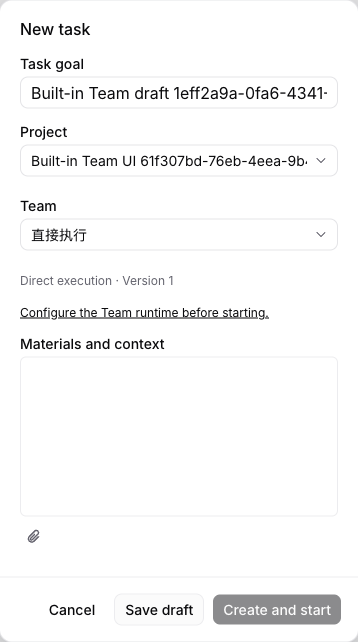
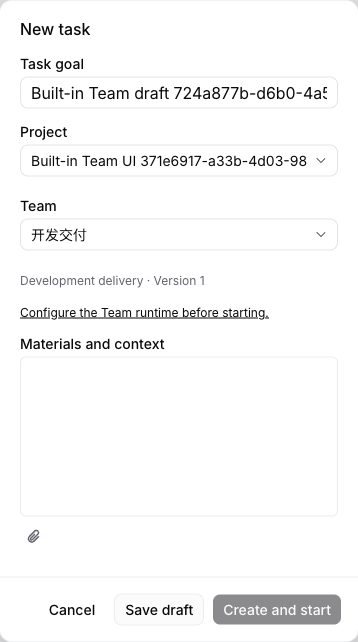
test(teams): accept Development delivery with human decisions in both repository modes

diff --git a/e2e/engineering-team-delivery.spec.ts b/e2e/engineering-team-delivery.spec.ts
@@ -7,7 +7,7 @@ import { pathToFileURL } from "node:url";
 import { TestApiClient } from "./fixtures";
 // Native queue claims and role conclusions are controlled; the API, Git,
 // browser observations, publication, independent verification and Done are real.
-for (const mode of ["in_place", "worktree"] as const) test(`Bug Fix Team ${mode} advances a native task from human reproduction facts through verified repair and report reading`, async ({ baseURL }, testInfo) => {
+for (const workflow of ["develop", "bug_fix"] as const) for (const mode of ["in_place", "worktree"] as const) test(`${workflow === "develop" ? "Development" : "Bug Fix"} Team ${mode} advances a native task from human facts through verified delivery and report reading`, async ({ baseURL }, testInfo) => {
   test.setTimeout(600000);
   test.skip(process.env.MULTICA_ENGINEERING_ENABLED !== "true" || !process.env.MULTICA_ENGINEERING_CLI || !process.env.MULTICA_ENGINEERING_BROWSER, "Requires managed engineering, a test-built CLI and an explicit browser");
   const api = new TestApiClient();
@@ -15,7 +15,7 @@ for (const mode of ["in_place", "worktree"] as const) test(`Bug Fix Team ${mode}
   const workspace = (await api.getWorkspaces()).find(item => item.slug === "loopwork-local")!;
   api.setWorkspaceId(workspace.id);
   api.setWorkspaceSlug(workspace.slug);
-  const directory = await realpath(await mkdtemp(join(tmpdir(), "team-bug-fix-"))), registeredRepository = join(directory, "repository");
+  const directory = await realpath(await mkdtemp(join(tmpdir(), `team-${workflow}-`))), registeredRepository = join(directory, "repository");
   let repository = registeredRepository;
   execFileSync("git", ["init", "-q", repository]);
   const git = (...args: string[]) => execFileSync("git", ["-C", repository, ...args], { encoding: "utf8", stdio: ["ignore", "pipe", "pipe"] }).trim();
@@ -34,25 +34,21 @@ for (const mode of ["in_place", "worktree"] as const) test(`Bug Fix Team ${mode}
   await context.addInitScript(() => localStorage.setItem("multica:chat:isOpen", "false"));
   try {
     const seed = await api.seedEngineeringRun(), runs = [seed];
-    for (let i = 0; i < 6; i++)
+    for (let i = 0; i < (workflow === "bug_fix" ? 6 : 5); i++)
       runs.push(await api.seedEngineeringRun(seed.issueId));
-    const [backlog, reproducer, planner, analyst, developer, verifier, reviewer] = runs as [
-      typeof seed,
-      typeof seed,
-      typeof seed,
-      typeof seed,
-      typeof seed,
-      typeof seed,
-      typeof seed
+    const [backlog, planner, analyst, developer, verifier, reviewer] = runs as [
+      typeof seed, typeof seed, typeof seed, typeof seed, typeof seed, typeof seed,
     ];
-    const project = await api.createProject(`Bug Fix Team ${seed.issueId}`), team = await api.createWorkflowTeamFixture(backlog.agentId);
+    const reproducer = workflow === "bug_fix" ? runs[6]! : undefined;
+    const roles = { context: backlog.agentId, planner: planner.agentId, analyst: analyst.agentId, developer: developer.agentId, verifier: verifier.agentId, reviewer: reviewer.agentId, ...(reproducer ? { reproducer: reproducer.agentId } : {}) };
+    const project = await api.createProject(`${workflow} Team ${seed.issueId}`), team = await api.createWorkflowTeamFixture(backlog.agentId);
     for (const run of runs) {
       await api.finishEngineeringRun(run.taskId);
       await api.attachEngineeringProject(run.taskId, project.id, registeredRepository, mode);
       if (run.agentId !== backlog.agentId)
         await api.addWorkflowTeamAgentFixture(team.id, run.agentId);
     }
-    await api.configureWorkflowTeamDefinitionFixture(team.id, { workflow: "bug_fix", roles: { context: backlog.agentId, reproducer: reproducer.agentId, planner: planner.agentId, analyst: analyst.agentId, developer: developer.agentId, verifier: verifier.agentId, reviewer: reviewer.agentId }, decision_mode: "balanced", max_reworks: 1 });
+    await api.configureWorkflowTeamDefinitionFixture(team.id, { workflow, roles, decision_mode: "balanced", max_reworks: 1 });
     const page = await context.newPage();
     await page.goto(`${baseURL}/`);
     await expect(page).toHaveURL(new RegExp(`/${workspace.slug}/issues`));
@@ -83,7 +79,7 @@ for (const mode of ["in_place", "worktree"] as const) test(`Bug Fix Team ${mode}
       console.info("Native queue checkpoint", JSON.stringify({ requestedAgent: agentId, runs: await api.engineeringRunStates(issueId), chain: checkpoint.chain, status: checkpoint.status, active: checkpoint.has_active_run, review: checkpoint.requirement?.review?.agent_id }));
       throw error;
     } const id = (await api.queuedEngineeringRun(issueId, agentId))!; return api.claimEngineeringRun(id); };
-    const begin = async (issueId: string, agentId: string, commit = originalCommit) => { console.info("Bug Fix Team awaiting native role", Object.entries({ context: backlog.agentId, reproducer: reproducer.agentId, planner: planner.agentId, analyst: analyst.agentId, developer: developer.agentId, verifier: verifier.agentId, reviewer: reviewer.agentId }).find(([, id]) => id === agentId)?.[0]); owner = await next(issueId, agentId);
+    const begin = async (issueId: string, agentId: string, commit = originalCommit) => { console.info(workflow + " Team awaiting native role", Object.entries(roles).find(([, id]) => id === agentId)?.[0]); owner = await next(issueId, agentId);
       if (mode === "worktree") {
         repository = join(directory, owner.taskId);
         registeredGit("worktree", "add", "-qb", `team-${owner.taskId}`, repository, commit);
@@ -120,9 +116,31 @@ for (const mode of ["in_place", "worktree"] as const) test(`Bug Fix Team ${mode}
     put("requirement-context.intent", "Restore the existing Continue behavior");
     put("requirement-context.assertions", { perspective: "actual", statement: "Continue sometimes produces no output", evidence: "reported", source: "Original bug report" }, "actual");
     put("requirement-context.assertions", { perspective: "expected", statement: expected, evidence: "reported", source: "Existing reader contract" }, "expected");
-    for (let i = 0; i < 3; i++)
+    const contextDraft = state.draft.id;
+    command({ type: "phase.complete" });
+    if (workflow === "develop") {
+      command({ type: "decision.propose", decision: { key: "state", type: "business", title: "Required reader states", question: "Which states must Continue support?", impact: "Determines the delivery scope", options: [{ id: "both", label: "Both states", consequence: "Continue works in fresh and saved states" }, { id: "fresh", label: "Fresh only", consequence: "Leave saved state outside this delivery" }], recommendation: { option: "both", reason: "Preserve the original reader contract", authority: "user" }, dependencies: [] } });
       command({ type: "phase.complete" });
-    put("requirement-context.answer-review", "Expected is fixed; affected conditions require reproduction");
+      command({ type: "decision.ask", key: "state" });
+      command({ type: "phase.complete" });
+      expect(state.draft.status).toBe("waiting_for_answers");
+      await finish();
+      expect(await api.queuedEngineeringRun(issue.id, planner.agentId)).toBeNull();
+      await panel.getByRole("button", { name: "Refresh engineering delivery" }).click();
+      await panel.getByRole("combobox", { name: "Your choice", exact: true }).click();
+      await page.getByRole("option", { name: /Both states.*Continue works/ }).click();
+      await page.screenshot({ path: testInfo.outputPath("team-development-human-choice.png") });
+      await panel.getByRole("button", { name: "Submit answer", exact: true }).click();
+      await begin(issue.id, backlog.agentId);
+      expect(state.draft.id).toBe(contextDraft);
+      expect(state.draft.runtimeInputs[0].answer).toMatchObject({ selectedOption: "both", userId: seed.userId });
+      command({ type: "decision.resolve", key: "state", option: "both", authority: "user", decision: "Both reader states", rationale: "Authenticated delivery scope", evidence: state.draft.runtimeInputs[0].id });
+      command({ type: "phase.complete" });
+    } else {
+      command({ type: "phase.complete" });
+      command({ type: "phase.complete" });
+    }
+    put("requirement-context.answer-review", "Expected and authenticated delivery scope agree");
     command({ type: "phase.complete" });
     put("requirement-context.assertions", { perspective: "target", statement: expected, evidence: "decided", source: "Existing reader contract" }, "target");
     command({ type: "phase.complete" });
@@ -135,51 +153,54 @@ for (const mode of ["in_place", "worktree"] as const) test(`Bug Fix Team ${mode}
     command({ type: "phase.complete" });
     command({ type: "phase.complete" });
     await finish();
-    console.info("Bug Fix Team: native context handed off");
-    await begin(issue.id, reproducer.agentId);
-    expect(state.chain).toBe("reproduction");
-    expect(state.contract.expectedBehavior).toBe(expected);
-    const reproductionDraft = state.draft.id;
-    const record = (reproduced: boolean, actual: string) => { put("reproduction.verdict", { status: reproduced ? "reproduced" : "not_reproduced", expectedBehavior: expected, actualBehavior: actual || "Empty output after Continue", environment: reproduced ? "Saved state #saved" : "Fresh state", stability: "Explicit Chromium activation", impactScope: "Continue control" }); put("reproduction.steps", { action: "Activate Continue", expected: "Continued", actual: actual || "Empty output" }, "activate"); put("reproduction.evidence", { kind: "observation", content: `Chromium output: ${JSON.stringify(actual)}`, source: `index.html${reproduced ? "#saved" : ""}` }, "browser"); };
-    record(false, await observe(false, "Continued"));
-    command({ type: "phase.complete" });
-    command({ type: "decision.propose", decision: { key: "state", type: "technical", title: "Affected reader state", question: "Which state triggers this failure?", impact: "Changes reproduction conditions", options: [{ id: "saved", label: "Saved state", consequence: "Open saved reader state" }, { id: "fresh", label: "Fresh state", consequence: "Open fresh reader state" }], recommendation: { option: "saved", reason: "Fresh state works", authority: "user" }, dependencies: [] } });
-    command({ type: "phase.complete" });
-    command({ type: "decision.ask", key: "state" });
-    command({ type: "phase.complete" });
-    expect(state.draft.status).toBe("waiting_for_answers");
-    await finish();
-    expect(await api.queuedEngineeringRun(issue.id, planner.agentId)).toBeNull();
-    await panel.getByRole("button", { name: "Refresh engineering delivery" }).click();
-    await expect(panel.getByText("Not reproduced under the recorded conditions. Delivery planning remains blocked.", { exact: true })).toBeVisible();
-    await page.setViewportSize({ width: 390, height: 1200 });
-    await expect(panel.getByRole("combobox", { name: "Your choice", exact: true })).toBeVisible();
-    await page.screenshot({ path: testInfo.outputPath("team-bug-awaiting-human-390.png") });
-    await panel.getByRole("combobox", { name: "Your choice", exact: true }).click();
-    await page.getByRole("option", { name: /Saved state.*Open saved/ }).click();
-    await panel.getByRole("button", { name: "Submit answer", exact: true }).click();
-    await begin(issue.id, reproducer.agentId);
-    expect(state.draft.id).toBe(reproductionDraft);
-    expect(state.draft.runtimeInputs[0].answer.userId).toBe(seed.userId);
-    command({ type: "decision.resolve", key: "state", option: "saved", authority: "user", decision: "Use saved state", rationale: "Authenticated human fact", evidence: state.draft.runtimeInputs[0].id });
-    command({ type: "phase.complete" });
-    put("reproduction.answer-review", "Changed conditions require a fresh observation");
-    command({ type: "phase.complete" });
-    command({ type: "phase.rewind", to: "investigation", reason: "Observe saved-state condition" });
-    record(true, await observe(true, "", "team-bug-reproduced.png"));
-    for (let i = 0; i < 3; i++)
+    console.info(workflow + " Team: native context handed off");
+    if (reproducer) {
+      await begin(issue.id, reproducer.agentId);
+      expect(state.chain).toBe("reproduction");
+      expect(state.contract.expectedBehavior).toBe(expected);
+      const reproductionDraft = state.draft.id;
+      const record = (reproduced: boolean, actual: string) => { put("reproduction.verdict", { status: reproduced ? "reproduced" : "not_reproduced", expectedBehavior: expected, actualBehavior: actual || "Empty output after Continue", environment: reproduced ? "Saved state #saved" : "Fresh state", stability: "Explicit Chromium activation", impactScope: "Continue control" }); put("reproduction.steps", { action: "Activate Continue", expected: "Continued", actual: actual || "Empty output" }, "activate"); put("reproduction.evidence", { kind: "observation", content: `Chromium output: ${JSON.stringify(actual)}`, source: `index.html${reproduced ? "#saved" : ""}` }, "browser"); };
+      record(false, await observe(false, "Continued"));
       command({ type: "phase.complete" });
-    put("reproduction.answer-review", "Saved-state browser observation reproduces failure against unchanged Expected");
-    command({ type: "phase.complete" });
-    command({ type: "phase.complete" });
-    expect(state.conclusion.history).toHaveLength(1);
-    expect(git("rev-parse", "HEAD")).toBe(originalCommit);
-    expect(git("status", "--porcelain")).toBe("");
-    await finish();
-    console.info("Bug Fix Team: authenticated facts and renewed reproduction retained");
+      command({ type: "decision.propose", decision: { key: "state", type: "technical", title: "Affected reader state", question: "Which state triggers this failure?", impact: "Changes reproduction conditions", options: [{ id: "saved", label: "Saved state", consequence: "Open saved reader state" }, { id: "fresh", label: "Fresh state", consequence: "Open fresh reader state" }], recommendation: { option: "saved", reason: "Fresh state works", authority: "user" }, dependencies: [] } });
+      command({ type: "phase.complete" });
+      command({ type: "decision.ask", key: "state" });
+      command({ type: "phase.complete" });
+      expect(state.draft.status).toBe("waiting_for_answers");
+      await finish();
+      expect(await api.queuedEngineeringRun(issue.id, planner.agentId)).toBeNull();
+      await panel.getByRole("button", { name: "Refresh engineering delivery" }).click();
+      await expect(panel.getByText("Not reproduced under the recorded conditions. Delivery planning remains blocked.", { exact: true })).toBeVisible();
+      await page.setViewportSize({ width: 390, height: 1200 });
+      await expect(panel.getByRole("combobox", { name: "Your choice", exact: true })).toBeVisible();
+      await page.screenshot({ path: testInfo.outputPath("team-bug-awaiting-human-390.png") });
+      await panel.getByRole("combobox", { name: "Your choice", exact: true }).click();
+      await page.getByRole("option", { name: /Saved state.*Open saved/ }).click();
+      await panel.getByRole("button", { name: "Submit answer", exact: true }).click();
+      await begin(issue.id, reproducer.agentId);
+      expect(state.draft.id).toBe(reproductionDraft);
+      expect(state.draft.runtimeInputs[0].answer.userId).toBe(seed.userId);
+      command({ type: "decision.resolve", key: "state", option: "saved", authority: "user", decision: "Use saved state", rationale: "Authenticated human fact", evidence: state.draft.runtimeInputs[0].id });
+      command({ type: "phase.complete" });
+      put("reproduction.answer-review", "Changed conditions require a fresh observation");
+      command({ type: "phase.complete" });
+      command({ type: "phase.rewind", to: "investigation", reason: "Observe saved-state condition" });
+      record(true, await observe(true, "", "team-bug-reproduced.png"));
+      for (let i = 0; i < 3; i++)
+        command({ type: "phase.complete" });
+      put("reproduction.answer-review", "Saved-state browser observation reproduces failure against unchanged Expected");
+      command({ type: "phase.complete" });
+      command({ type: "phase.complete" });
+      expect(state.conclusion.history).toHaveLength(1);
+      expect(git("rev-parse", "HEAD")).toBe(originalCommit);
+      expect(git("status", "--porcelain")).toBe("");
+      await finish();
+      console.info(workflow + " Team: authenticated facts and renewed reproduction retained");
+    }
     await begin(issue.id, planner.agentId);
     expect(state.chain).toBe("planning");
-    expect(state.contract.reproduction.report).toContain("Prior investigation observations");
+    if (reproducer) expect(state.contract.reproduction.report).toContain("Prior investigation observations");
+    else expect(state.contract.reproduction).toBeUndefined();
     expect(state.contract.sources.find((source: any) => source.key === "acceptance:continue").oracle).toBe(expected);
     command({ type: "phase.complete" });
     put("delivery-plan.rationale", "Restore Continue against the original Expected");
@@ -244,16 +265,16 @@ for (const mode of ["in_place", "worktree"] as const) test(`Bug Fix Team ${mode}
     command({ type: "phase.complete" });
     await finish();
     await expect.poll(() => api.publishedEngineeringIssues(issue.id).then(items => items[0]?.status), { timeout: 70000 }).toBe("done");
-    console.info("Bug Fix Team: native unit accepted against real commit and browser observations");
+    console.info(workflow + " Team: native unit accepted against real commit and browser observations");
     const beforeReview = await api.engineeringOverview(issue.id);
-    console.info("Bug Fix Team review checkpoint", JSON.stringify({ chain: beforeReview.chain, status: beforeReview.status, accepted: Object.keys(beforeReview.requirement.accepted), review: !!beforeReview.requirement.review, active: beforeReview.has_active_run }));
+    console.info(workflow + " Team review checkpoint", JSON.stringify({ chain: beforeReview.chain, status: beforeReview.status, accepted: Object.keys(beforeReview.requirement.accepted), review: !!beforeReview.requirement.review, active: beforeReview.has_active_run }));
     // Review creation and native enqueue are separate persisted scheduler turns.
     await expect.poll(() => api.engineeringOverview(issue.id).then(value => value.requirement.review?.agent_id), { timeout: 70000 }).toBe(reviewer.agentId);
     await begin(issue.id, reviewer.agentId, repairedCommit);
     expect(state.chain).toBe("review");
     expect(state.contract.binding.codeVersion).toBe(repairedCommit);
-    expect(state.contract.subjects).toEqual(expect.arrayContaining([expect.objectContaining({ kind: "expected", content: expected })]));
-    expect(state.contract.evidence.some((item: any) => item.kind === "reproduction")).toBe(true);
+    expect(state.contract.subjects).toEqual(expect.arrayContaining([expect.objectContaining({ kind: workflow === "bug_fix" ? "expected" : "target", content: expected })]));
+    expect(state.contract.evidence.some((item: any) => item.kind === "reproduction")).toBe(!!reproducer);
     const reviewContract = state.contract;
     command({ type: "phase.complete" });
     for (const [index, subject] of reviewContract.subjects.entries())
@@ -262,7 +283,7 @@ for (const mode of ["in_place", "worktree"] as const) test(`Bug Fix Team ${mode}
     put("review.assessment", { summary: "Original saved-state defect is repaired", evidenceBoundary: "Exact local commit and independent Chromium observations; model conclusions are controlled", residualRisk: "No real-provider or packaged-client acceptance" });
     command({ type: "phase.complete" });
     for (const kind of ["outcome", "scope", "implementation", "verification", "risks"])
-      put("review.report-sections", { kind, content: `Bug Fix ${kind}: the original Continue result is preserved in fresh and saved states at ${repairedCommit}. Authenticated human conditions and earlier observations remain retained.` }, kind);
+      put("review.report-sections", { kind, content: `${workflow} ${kind}: the original Continue result is preserved in fresh and saved states at ${repairedCommit}. Authenticated human conditions and earlier observations remain retained.` }, kind);
     command({ type: "phase.complete" });
     command({ type: "phase.complete" });
     expect(state.conclusion.verdict).toBe("report_ready");
@@ -274,7 +295,7 @@ for (const mode of ["in_place", "worktree"] as const) test(`Bug Fix Team ${mode}
     const refreshed = page.waitForResponse(response => response.request().method() === "GET" && new URL(response.url()).pathname === `/api/issues/${issue.id}/engineering`);
     await panel.getByRole("button", { name: "Refresh engineering delivery" }).click();
     const fresh = await (await refreshed).json();
-    console.info("Bug Fix Team reading checkpoint", JSON.stringify({ active: fresh.has_active_run, report: !!fresh.requirement.review?.report_hash, intervention: !!fresh.intervention }));
+    console.info(workflow + " Team reading checkpoint", JSON.stringify({ active: fresh.has_active_run, report: !!fresh.requirement.review?.report_hash, intervention: !!fresh.intervention }));
     await expect(panel.getByRole("heading", { name: "Requirement closure report", exact: true })).toBeVisible();
     const reading = panel.getByRole("button", { name: "I have read it; close requirement", exact: true });
     await expect(reading).toBeEnabled({ timeout: 15000 });
@@ -296,7 +317,7 @@ for (const mode of ["in_place", "worktree"] as const) test(`Bug Fix Team ${mode}
     expect(registeredGit("rev-parse", deliveryBranch)).toBe(repairedCommit);
     expect(registeredGit("show", `${repairedCommit}:index.html`)).toBe(fixed);
     expect(git("status", "--porcelain")).toBe("");
-    expect((await api.engineeringRunStates(issue.id)).map(run => run.agent_id).sort()).toEqual([backlog.agentId, reproducer.agentId, reproducer.agentId, planner.agentId, reviewer.agentId].sort());
+    expect((await api.engineeringRunStates(issue.id)).map(run => run.agent_id).sort()).toEqual([backlog.agentId, ...(reproducer ? [reproducer.agentId, reproducer.agentId] : [backlog.agentId]), planner.agentId, reviewer.agentId].sort());
   }
   finally {
     await context.close();

diff --git a/e2e/engineering-desktop.spec.ts b/e2e/engineering-desktop.spec.ts
@@ -24,8 +24,8 @@ test("packaged local Desktop retains the Development Team and drafts without sta
     let page = await useEnglishDesktop(application, sandbox.profile.directory);
     currentPage = page;
     await page.getByRole("link", {name: "Team", exact: true}).click();
-    await expect(page.getByRole("link", {name: "Teams", exact: true})).toBeVisible({timeout: 25000});
-    await page.getByRole("link", {name: "Teams", exact: true}).click();
+    await expect(page.getByRole("link", {name: /^Teams(?:\s*\d+)?$/})).toBeVisible({timeout: 25000});
+    await page.getByRole("link", {name: /^Teams(?:\s*\d+)?$/}).click();
     for (const team of teams) await expect(page.getByText(team.name, {exact: true}).first()).toBeVisible();
     await page.screenshot({path: testInfo.outputPath("desktop-development-team.png")});
     await page.getByText(develop.name, {exact: true}).first().click();
@@ -59,7 +59,7 @@ test("packaged local Desktop retains the Development Team and drafts without sta
     currentPage = page;
     await expect(page.getByTestId("content").getByRole("button", {name: title, exact: true})).toBeVisible({timeout: 25000});
     await page.getByRole("link", {name: "Team", exact: true}).click();
-    await expect(page.getByRole("link", {name: "Teams", exact: true})).toBeVisible({timeout: 25000});
+    await expect(page.getByRole("link", {name: /^Teams(?:\s*\d+)?$/})).toBeVisible({timeout: 25000});
     expect(await page.evaluate(() => window.daemonAPI.getStatus())).toMatchObject({state: "stopped"});
     await sandbox.expectStopped(page);
     expect((await api.builtinEngineeringTeams())).toEqual(teams);

diff --git a/docs/engineering/migration-status.md b/docs/engineering/migration-status.md
@@ -52,7 +52,7 @@ scenario. See
 | Direct | Controlled normal lifecycle connected | [Direct](direct.md): dedicated RUN/SUBMIT, first-result-wins persistence, native attempt/project fencing, Git/plain-directory binding, guarded automatic Done and Markdown UI; both controlled browser scenarios passed. Terminal intervention handoff is connected; independent Admin repair/arbitration, real-provider and packaged acceptance remain |
 | Business Analysis | Standalone closure connected | Real-model review quality, native worktree and packaged acceptance before cutover |
 | End to End | Controlled local path connected | Ten initial roles, exact source handoff, authenticated context, two native dependent deliveries, automatic publication/review, a third forward unit and exact report reading passed; real-provider and native worktree/packaged acceptance remain |
-| Develop | Controlled local path connected | Real-provider acceptance, remaining recovery and resource-ownership boundaries before cutover |
+| Develop | Controlled six-role Team lifecycle passed in both repository modes | [Team acceptance](teams.md#verification-and-remaining-boundary): create/start with only Team/project selection, authenticated context question and same-draft continuation, automatic planning/child publication, analysis, real Git commit/check receipt, independent Chrome verification, automatic final Review and exact human reading before parent Done. Reclaimed worktrees retain required branches and leave the registered HEAD unchanged. Queue claims and role conclusions are controlled; real-provider acceptance and remaining recovery/resource-ownership boundaries remain before cutover |
 | Bug Fix | Controlled local Team lifecycle connected in both repository modes | [Native Team acceptance](reproduction.md#controlled-native-bug-fix-team-acceptance): browser create/start, authenticated reproduction facts, one native child, real Git repair, independent Chrome verification, automatic Review and exact reading before native Done. Competing child-done leader wakeups are suppressed with facts retained. [Protocol acceptance](requirement-review.md#bug-fix-team-protocol-acceptance) additionally covers two dependent units and storage reopen in both in-place/worktree modes. Native worktree attempts are reclaimed between roles and before reading while retaining the original HEAD and exact Review/delivery refs. Daemon-owned process lifecycle, real-provider diagnosis and packaged acceptance remain |
 | Post-delivery feedback | Partial | Capture, triage, forward delivery, independent per-comment verification and new report reading connected; report correction connected; Team-bound roles and automatic forward authorization connected; original-contract revision and reconciliation remain incomplete |
 

diff --git a/docs/engineering/desktop-acceptance.md b/docs/engineering/desktop-acceptance.md
@@ -6,8 +6,8 @@ not a notarized installer or acceptance of model execution, every workflow,
 updating, external protocol registration, other operating systems or Mobile.
 
 The current local fork `0.8.2-241-gdf08ef700` has passed independent native
-launch and displays all five Teams, with its separate bundle identity and no
-advertised upstream protocol. Its 44,768 packed files passed integrity checks
+launch and displays the Development delivery Team, with its separate bundle
+identity and no advertised upstream protocol. Its 44,768 packed files passed integrity checks
 both before and after ad-hoc signing. The prior `0.8.2-238-gc88b74ba5` archive
 was corrupt and is superseded by this build.
 
@@ -83,7 +83,8 @@ real provider executable. The scenario:
 
 1. Enters the existing local workspace without email or OAuth and confirms the
    isolated Electron data directory.
-2. Navigates **Team → Teams**, showing the five actual predefined Teams.
+2. Navigates **Team → Teams**, showing Development delivery as the only active
+   predefined Team.
 3. Opens **Development delivery → Team settings**, confirms the fixed workflow
    and inherited role/context settings, then cancels without changing the Team.
 4. Creates an owned fixture project and opens **New Issue**. The task asks for
@@ -93,8 +94,8 @@ real provider executable. The scenario:
 5. Saves a Backlog draft assigned to the Develop Team, closes and relaunches the
    same packaged app, and finds the retained task/session again.
 6. Confirms the daemon stayed stopped, no provider sentinel was invoked, no
-   daemon PID/port file was created, the native config is private, and all five
-   Team definitions remain unchanged. `TestApiClient` removes only the owned
+   daemon PID/port file was created, the native config is private, and the
+   Development delivery definition remains unchanged. `TestApiClient` removes only the owned
    draft/project fixtures. The private Desktop profile is retained for inspection.
 
 ```sh
@@ -109,7 +110,7 @@ arguments the test skips; a skipped test is not acceptance. The test's English
 locale is saved only in its isolated renderer; it does not change the shared
 local user's language.
 
-![Five Teams in packaged Desktop](assets/desktop-five-teams.png)
+![Development delivery in packaged Desktop](assets/desktop-development-team.png)
 
 ![Team-owned workflow, roles and context](assets/desktop-team-settings.png)
 

diff --git a/docs/engineering/teams.md b/docs/engineering/teams.md
@@ -155,8 +155,26 @@ second authorization form is needed for a Team's predefined feedback workflow.
 
 ## Verification and remaining boundary
 
+The [Development delivery lifecycle scenario](../../e2e/engineering-team-delivery.spec.ts)
+uses an owned six-role Team with the `develop` definition. A task chooses only its
+project and Team; context asks an authenticated human question and resumes the
+same draft before automatic planning. Planning publishes one native child;
+analysis, development and an independent verifier run as separate native roles.
+The developer creates a real Git commit and captured check receipt, the verifier
+observes fresh/saved page behavior in Chrome, and final Review reconciles the
+original obligations. Premature parent/child Done is refused and the parent can
+close only after reading the exact report. Both in-place and reclaimed-worktree
+modes passed the controlled native acceptance. Queue claims and role conclusions are controlled; no model
+provider or actual historical task is started. The scenario preserves the user's retained Development
+Team and its six runtime bindings.
+
+![Authenticated Development scope choice](assets/development-human-choice.png)
+
+![Development delivery report before human reading](assets/development-report.png)
+
 The built-in Team browser scenario reads the real native list, requires only
-Development delivery and its stored definition, checks their visibility at wide/narrow sizes, checks that
+Development delivery and its stored definition, checks their visibility at
+wide/narrow sizes, checks that
 the predefined workflow is already set and locked, and creates a native Backlog
 task by selecting an existing built-in Team. Missing runtime keeps initial start
 disabled and links to Team settings. Empty runtime settings link to runtime

diff --git a/docs/engineering/reproduction.md b/docs/engineering/reproduction.md
@@ -109,7 +109,7 @@ remote execution and a complete model-driven Bug Fix remain unaccepted.
 
 ## Controlled native Bug Fix Team acceptance
 
-The separate [Team lifecycle scenario](../../e2e/engineering-team-bug-fix.spec.ts)
+The separate [Team lifecycle scenario](../../e2e/engineering-team-delivery.spec.ts)
 creates a native task through the browser with only project/Team selection. An
 isolated fixture-owned Team uses the `bug_fix` preset and seven separate roles;
 the five built-in user Teams and their runtime settings are preserved.
